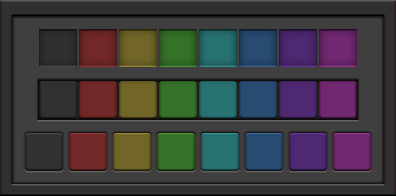
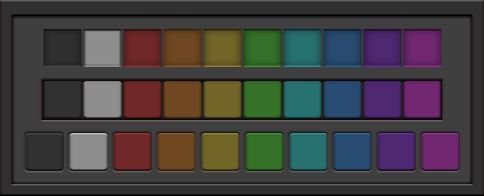
Add new slot button colors

diff --git a/docs/styles.md b/docs/styles.md
@@ -18,7 +18,7 @@ FLib includes a myriad of colored slot styles for use with `sprite-button`s:
 
 ![](https://raw.githubusercontent.com/factoriolib/flib/a4eb6f47828cad98b63d8bed78b9af6106891c45/docs/assets/slot-style-examples.png)
 
-There are three categories of style, from top to bottom: `slot`, `slot_button`, and `standalone_slot_button`. From left to right, the colors are `default`, `red`, `yellow`, `green`, `cyan`, `blue`, `purple`, and `pink`.
+There are three categories of style, from top to bottom: `slot`, `slot_button`, and `standalone_slot_button`. From left to right, the colors are `default`, `white`, `red`, `orange`, `yellow`, `green`, `cyan`, `blue`, `purple`, and `pink`.
 
 The styles are formatted as `flib_CATEGORY_COLOR`. For example, if I want a pink standalone slot button (bottom-right on the preview image), I would use `flib_standalone_slot_button_pink`.
 
